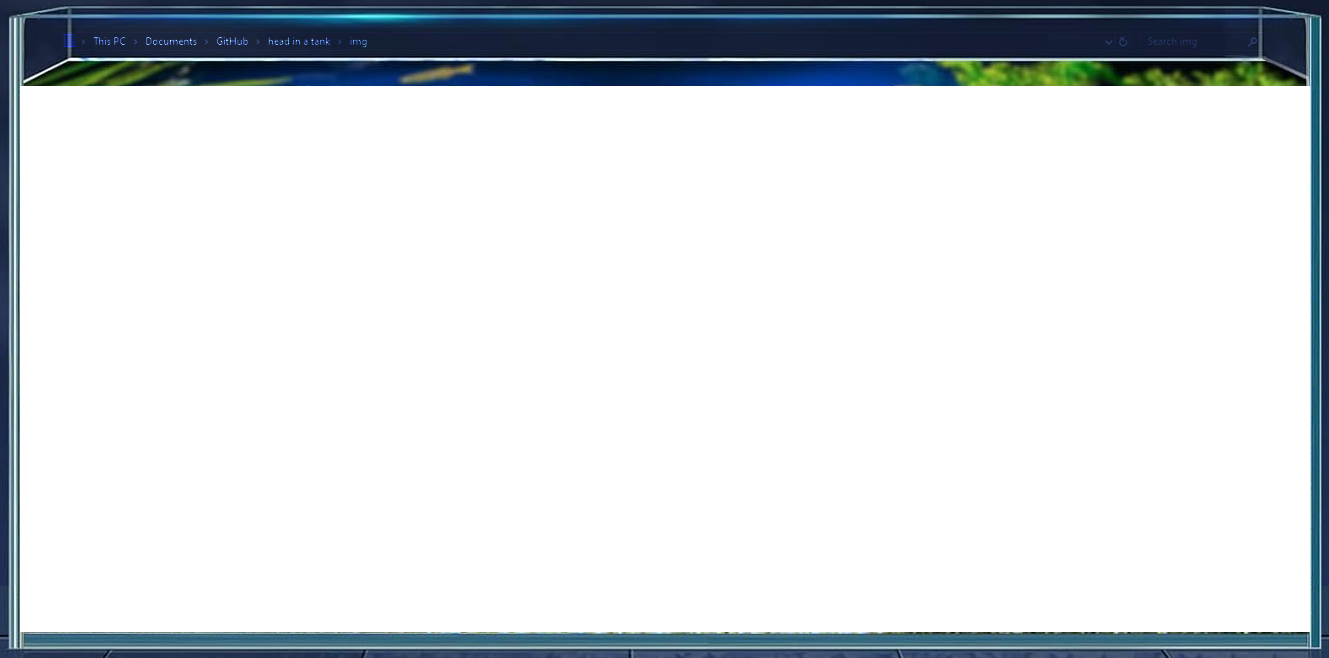
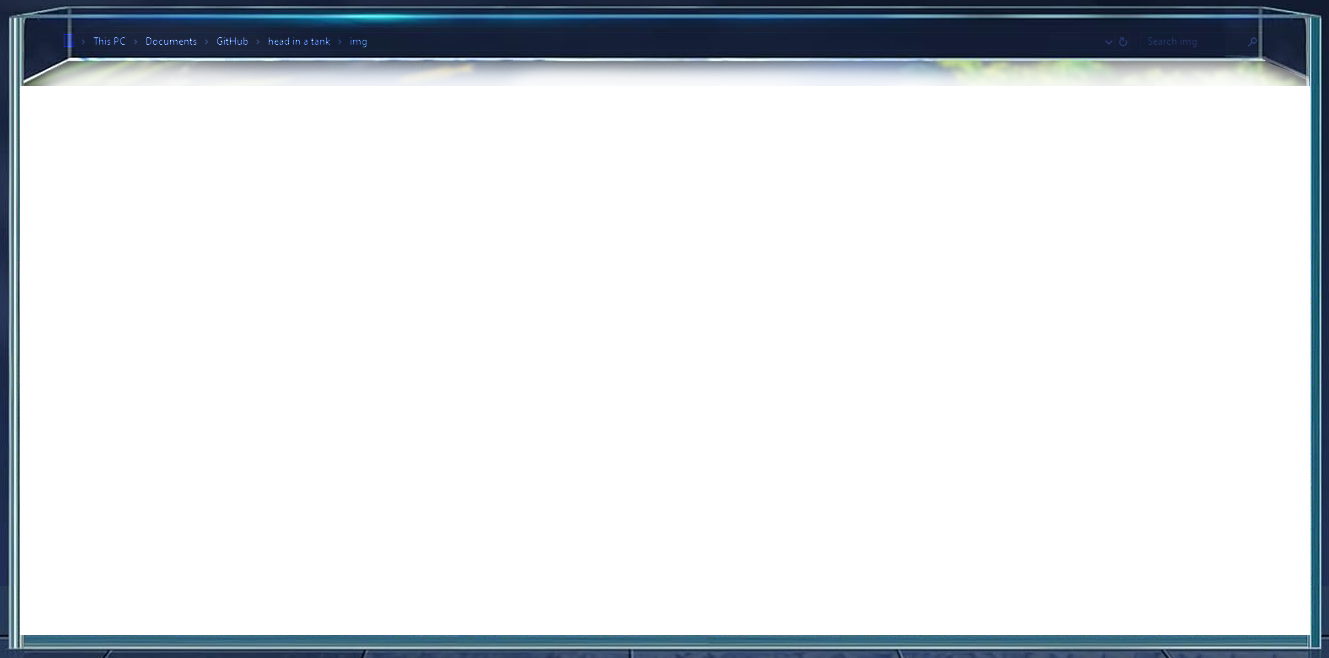
img edits

Changed region(s): [[0.0, 0.0912, 0.9872, 0.152], [0.0309, 0.9422, 0.9872, 0.9726]]

diff --git a/index.html b/index.html
@@ -13,7 +13,9 @@
 
 
     <body>
-        <img src="img/fish-collection.gif" alt="fish file folder" style = "position:absolute; left:0; top:90;">
+        <img src="img/hands.png" alt="two hands cupping" height=500 style = "position:absolute; left:50; top:450;">
+        <img src="img/tank.png" alt="fish tank" style = "position:absolute; left:0; top:0;">
+        <img src="img/fish-collection.gif" alt="fish file folder" style = "position:absolute; left:23; top:90;">
 
         <img src="img/dancingfish.gif" alt="dancing fish" style = "position:absolute; left:300; top:250;">
         <img src="img/fish_swims_by.gif" alt="fish swims_by" style = "position:absolute; left:50; top:600;">
@@ -23,8 +25,10 @@
         <img src="img/3a.gif" alt="blue shark" style = "position:absolute; left:959; top:500;">
 
 
-        <img src="img/blender.png" alt="blender" height=600 style = "position:absolute; left:600; top:200;">
-        <img src="img/tank.png" alt="fish tank" style = "position:absolute; left:0; top:0;">
+        <img src="img/hand.png" alt="hand cupping" height=200 style = "position:absolute; left:600; top:450;">
+
+
+
 
 
         <audio controls autoplay>

diff --git a/css/style.css b/css/style.css
@@ -43,8 +43,8 @@ body {
   background-size: cover;
   background-repeat: repeat;
   background-color: white;
-
-  border: 20px solid white;
+/*
+  border: 20px solid white;*/
   position: absolute;
   top: 0;
   right: 0;
